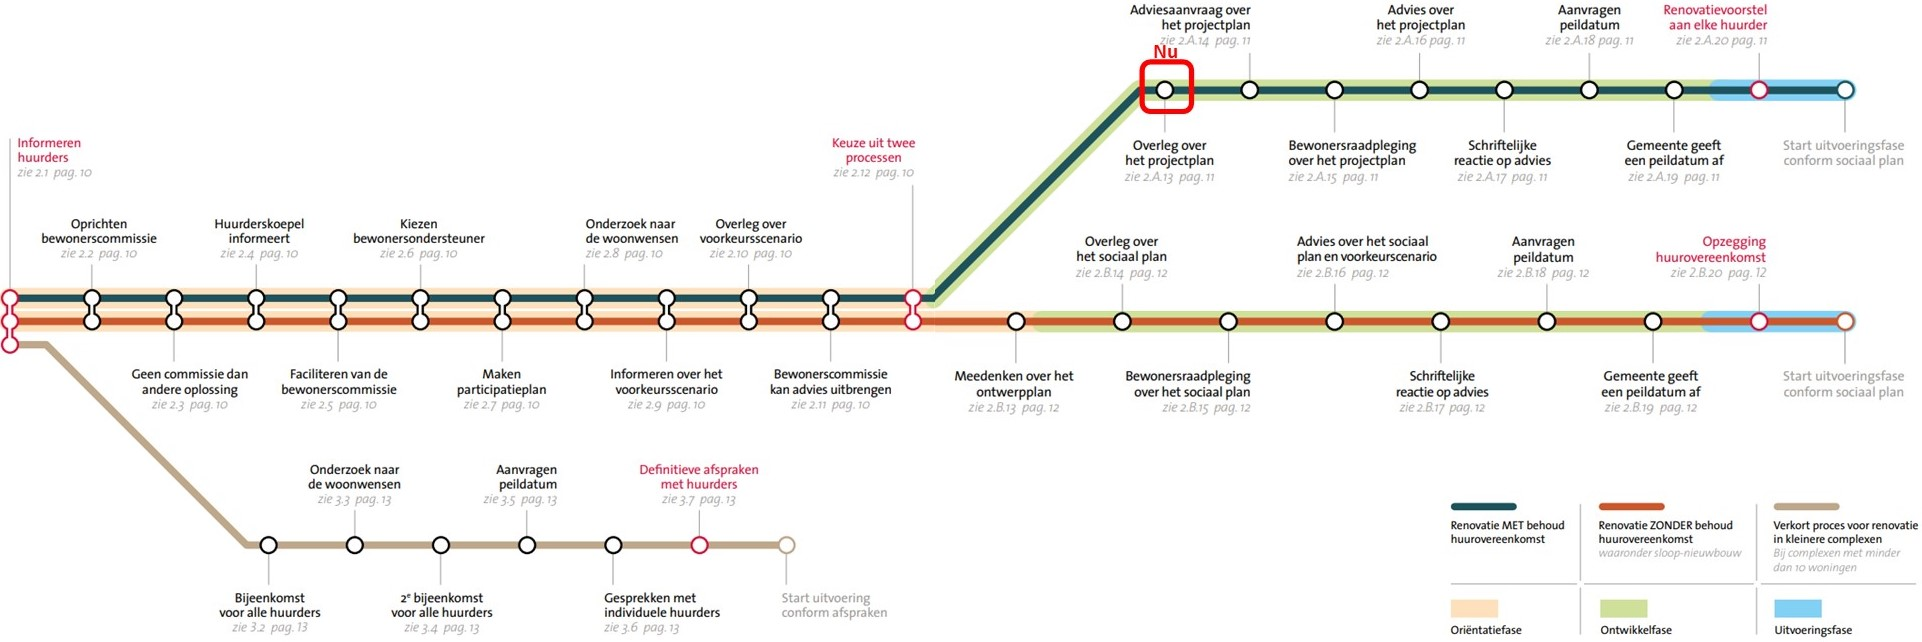
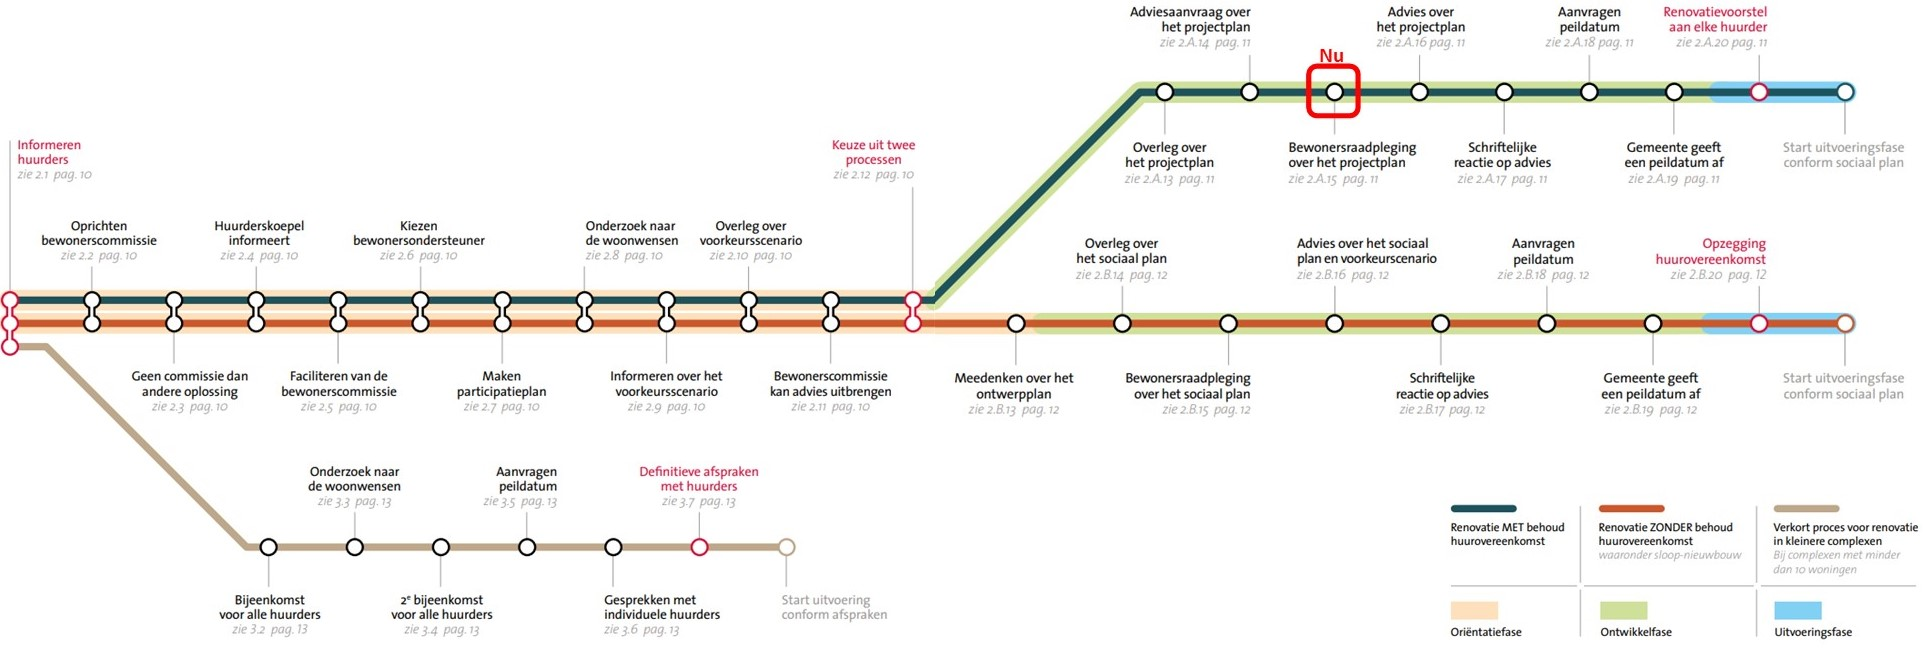
update positie in tijdlijn + bijbehorende tekst

diff --git a/RenovationStages.html b/RenovationStages.html
@@ -37,7 +37,7 @@
             <p>Op deze pagina zullen wij wat meer uitleg geven over groot onderhoud en renovatie in het algemeen en specifiek over het groot onderhoud en renovatie op de Heesterveld. Onderaan de pagina staan de Amsterdamse Kaderafspraken weergegeven.</p>
 
             <h2>Tijdlijn voor het groot onderhoud</h2>
-            <p>De tijdlijn hieronder komt uit de Amsterdamse Kaderafspraken en geeft het proces weer voor renovatie en groot onderhoud. Op ons is de bovenste (groene) tijdlijn van toepassing: Renovatie MET behoud van huurovereenkomst. Het rode kader geeft aan waar we nu in het proces zijn: het opstellen van een participatieplan. Klik op de rondjes op de tijdlijn voor meer informatie over een onderdeel van het proces.</p>
+            <p>De tijdlijn hieronder komt uit de Amsterdamse Kaderafspraken en geeft het proces weer voor renovatie en groot onderhoud. Op ons is de bovenste (groene) tijdlijn van toepassing: Renovatie MET behoud van huurovereenkomst. Het rode kader geeft aan waar we nu in het proces zijn: de bewonersraadpleging (enquete) over het projectplan. Klik op de rondjes op de tijdlijn voor meer informatie over een onderdeel van het proces.</p>
             <div class="img-container">
                 <img src="./Tijdlijn.jpg" alt="Tijdlijn Amsterdamse Kaderafspraken" id="tijdlijn" usemap="#tijdlijnmap" width="1552.71" height="516.22" min-width="1552.71" min-height="516.22">
                 <span class="title">Tijdlijn uit de Amsterdamse Kaderafspraken, juni 2020 (adapted)</span>
